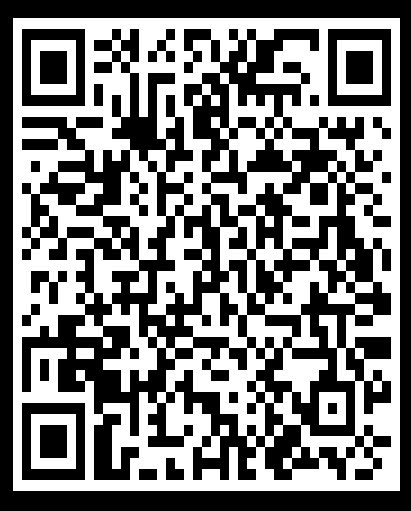
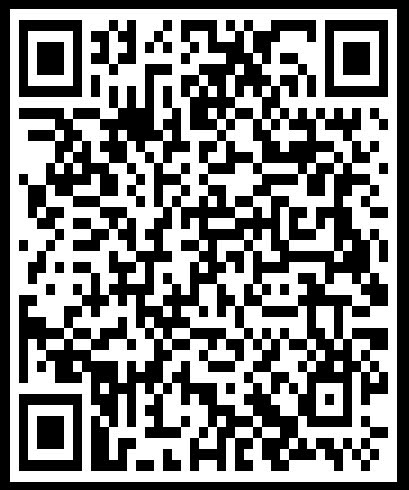
change QR image and add logic add date when set account to premium

diff --git a/src/components/organs/SetPremium.tsx b/src/components/organs/SetPremium.tsx
@@ -26,17 +26,28 @@ const SetPremium: React.FC = () => {
       // Truy vấn Firestore để tìm paymentCode trong premiumOrder
       const q = query(
         collection(db, "premiumOrder"),
-        where("paymentCode", "==", code)
+        where("paymentCode", "==", code),
+        where("status", "==", "pending") // Đảm bảo chỉ lấy các đơn chưa xử lý
       );
       const querySnapshot = await getDocs(q);
 
       if (!querySnapshot.empty) {
         const docSnap = querySnapshot.docs[0];
-        const { userId, selectedPlan } = docSnap.data();
+        const { userId, selectedPlan, timestamp } = docSnap.data();
 
-        // Cập nhật isPremium thành true cho userId đó
+        // Tính ngày hết hạn
+        const expirationDate = new Date(timestamp);
+        if (selectedPlan === "month") {
+          expirationDate.setMonth(expirationDate.getMonth() + 1);
+        } else if (selectedPlan === "year") {
+          expirationDate.setFullYear(expirationDate.getFullYear() + 1);
+        }
+
+        // Cập nhật ngày hết hạn cho userId đó
         const userRef = doc(db, "users", userId);
-        await updateDoc(userRef, { isPremium: true });
+        await updateDoc(userRef, {
+          premiumExpirationDate: expirationDate.toISOString(),
+        });
 
         // Ghi dữ liệu vào PremiumStatistic
         await addDoc(collection(db, "PremiumStatistic"), {
@@ -45,11 +56,15 @@ const SetPremium: React.FC = () => {
           selectedPlan, // Gói premium (tháng/năm)
           paymentCode: code, // Mã thanh toán
           status: "confirmed", // Trạng thái xác nhận
+          premiumExpirationDate: expirationDate.toISOString(),
         });
+
+        // Cập nhật trạng thái đơn hàng
+        await updateDoc(docSnap.ref, { status: "confirmed" });
 
         alert("Tài khoản đã được nâng cấp lên Premium!");
       } else {
-        alert("Mã không hợp lệ!");
+        alert("Mã không hợp lệ hoặc đã được sử dụng!");
       }
     } catch (error) {
       console.error("Lỗi khi xác nhận mã:", error);

diff --git a/src/components/organs/DownloadModal.tsx b/src/components/organs/DownloadModal.tsx
@@ -1,5 +1,8 @@
 import { FC } from "react";
 import QRCode from "../../assets/QR.jpg";
+import { List } from "../atoms/List";
+import { Link } from "react-router-dom";
+import { FacebookLogo, InstagramLogo } from "@phosphor-icons/react";
 
 interface DownloadModalProps {
   onClose: () => void;
@@ -28,14 +31,24 @@ const DownloadModal: FC<DownloadModalProps> = ({ onClose }) => {
           <img src={QRCode} alt="QR Code" className="w-full h-full" />
         </div>
         <p className="text-gray-600 mt-4">Nếu gặp vấn đề hãy liên hệ:</p>
-        <a
-          href={appDownloadLink}
-          className="text-blue-500 font-medium hover:underline"
-          target="_blank"
-          rel="noopener noreferrer"
-        >
-          {appDownloadLink}
-        </a>
+        <ul className="w-full flex items-center lg:justify-center gap-4 mt-2">
+          <List>
+            <Link
+              to={`https://www.facebook.com/profile.php?id=100075936157371`}
+              className="text-color3 border-[1px] border-color3/50 p-2.5 flex rounded-full transition-all duration-300 ease-in hover:bg-gradient-to-tr from-blue-500 to-blue-400 hover:text-white"
+            >
+              <FacebookLogo size={15} color="currentColor" weight="fill" />
+            </Link>
+          </List>
+          <List>
+            <Link
+              to={`https://www.instagram.com/travelmatebusinessvn/`}
+              className="text-color3 border-[1px] border-color3/50 p-2.5 flex rounded-full transition-all duration-300 ease-in hover:bg-gradient-to-tr from-color1 to-color2 hover:text-white"
+            >
+              <InstagramLogo size={15} color="currentColor" weight="fill" />
+            </Link>
+          </List>
+        </ul>
       </div>
     </div>
   );

diff --git a/src/components/organs/Footer.tsx b/src/components/organs/Footer.tsx
@@ -93,7 +93,7 @@ const Footer = () => {
             <List>
               <Link
                 to={`https://www.facebook.com/profile.php?id=100075936157371`}
-                className="text-color3 border-[1px] border-color3/50 p-2.5 flex rounded-full transition-all duration-300 ease-in hover:bg-gradient-to-tr from-color1 to-color2 hover:text-white"
+                className="text-color3 border-[1px] border-color3/50 p-2.5 flex rounded-full transition-all duration-300 ease-in hover:bg-gradient-to-tr from-blue-500 to-blue-400 hover:text-white"
               >
                 <FacebookLogo size={15} color="currentColor" weight="fill" />
               </Link>
